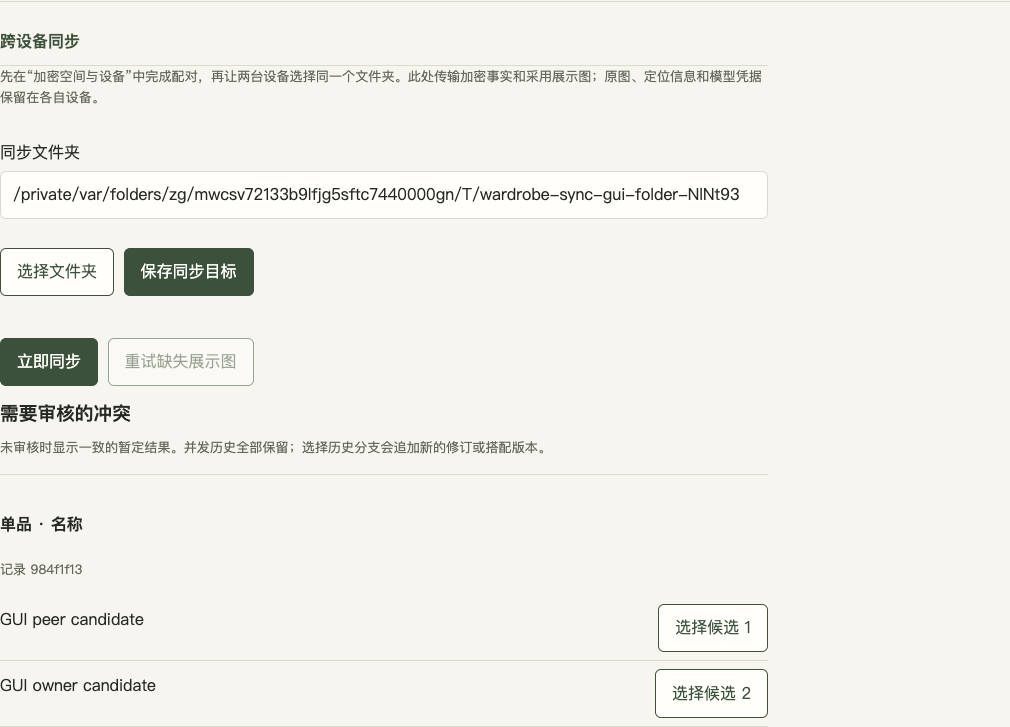
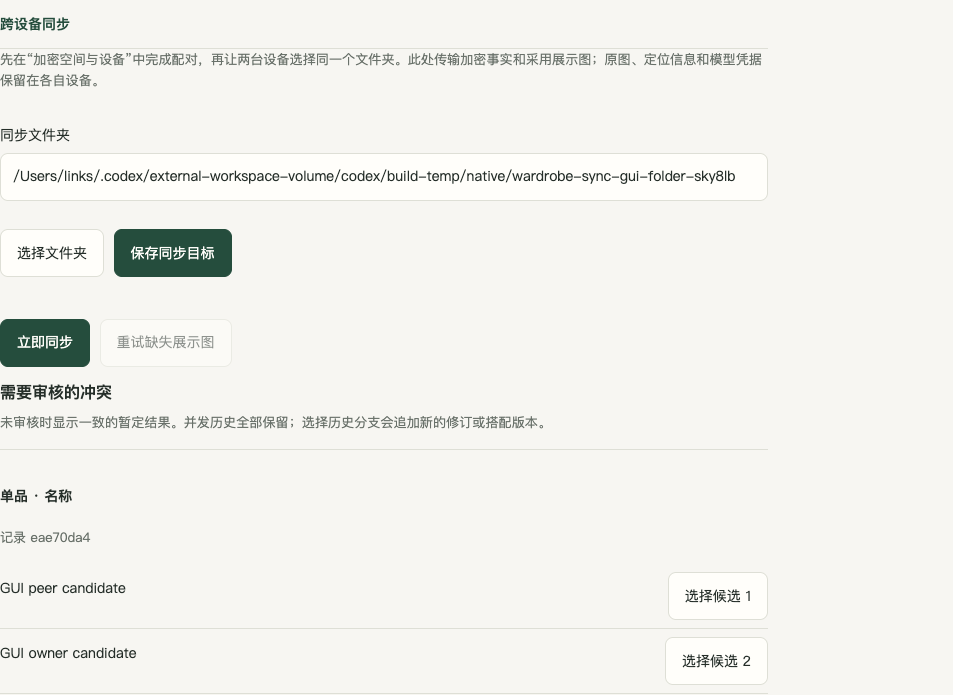
test(gui): retarget sync spec navigation to the four-workspace settings hub
The integrated #38 redesign moved sync settings behind 设置 → 同步
settings card; the panel flow (configure local folder target, disabled
run before target, storage error alert, narrow widths) is unchanged and
re-verified, including the real dual-installation OS-credential run
(GUI owner + CLI peer, bounded batches, stop/resume, name-conflict
manual choice, missing-display retry, rebuilt thumbnails) with fresh
verification screenshots.

diff --git a/apps/desktop/tests/sync.spec.ts b/apps/desktop/tests/sync.spec.ts
@@ -4,9 +4,14 @@ import {fileURLToPath} from 'node:url';
 import {mkdtempSync,writeFileSync,readdirSync,renameSync,rmSync,mkdirSync} from 'node:fs';
 import {join} from 'node:path';
 import {tmpdir} from 'node:os';
+const openSyncPanel=async(page:import('@playwright/test').Page)=>{
+ await page.getByRole('button',{name:'设置',exact:true}).click();
+ await page.getByRole('button',{name:/同步.*连接本地同步目标/}).click();
+ await page.getByText('跨设备同步',{exact:true}).click();
+};
 test('同步目标无配置时真实Application状态与窄屏手工配置入口',async({page})=>{
  await page.goto('/');
- await page.getByText('跨设备同步',{exact:true}).click();
+ await openSyncPanel(page);
  const panel=page.locator('#sync-settings');
  await expect(panel.getByLabel('同步文件夹')).toBeVisible();
  await expect(panel.getByRole('button',{name:'立即同步',exact:true})).toBeDisabled();
@@ -33,7 +38,7 @@ test('实际双安装GUI配置、断网名称冲突人工选择与缺图重试',
  const garment=await owner('clothing.create',{member_id:member,name:'GUI owner original',category:'top'});
  for(let i=0;i<260;i++)await owner('clothing.create',{member_id:member,name:`GUI bounded batch ${i}`,category:'top'});
  peer('sync.configure',{provider_kind:'local_folder',directory:remote});
- await page.goto('/');await page.getByText('跨设备同步',{exact:true}).click();const panel=page.locator('#sync-settings');
+ await page.goto('/');await openSyncPanel(page);const panel=page.locator('#sync-settings');
  await panel.getByLabel('同步文件夹').fill(remote);await panel.getByRole('button',{name:'保存同步目标',exact:true}).click();await expect(panel.getByRole('status')).toContainText('同步目标已保存');
  let release!:()=>void,markReady!:()=>void;const held=new Promise<void>(r=>{release=r;}),ready=new Promise<void>(r=>{markReady=r;});let holdOnce=true;
  await page.route('**/__wardrobe_dev_api',async route=>{if(holdOnce&&route.request().postDataJSON()?.operation==='sync.run'){holdOnce=false;const response=await route.fetch();markReady();await held;await route.fulfill({response});}else await route.continue();});
@@ -42,7 +47,7 @@ test('实际双安装GUI配置、断网名称冲突人工选择与缺图重试',
  await panel.getByRole('button',{name:'立即同步',exact:true}).click();await expect(panel.getByRole('status')).toContainText('本次发布',{timeout:60000});await expect(panel.getByRole('button',{name:'立即同步',exact:true})).toBeEnabled({timeout:60000});expect((await owner('sync.run')).sent).toBe(0);while(peer('sync.run').has_more){};
  await owner('clothing.update',{member_id:member,id:garment.id,name:'GUI owner candidate'});peer('clothing.update',{member_id:member,id:garment.id,name:'GUI peer candidate'});
  await owner('sync.run');peer('sync.run');await owner('sync.run');
- await page.reload();await page.getByText('跨设备同步',{exact:true}).click();
+ await page.reload();await openSyncPanel(page);
  const conflict=panel.locator('.sync-conflicts>li').filter({hasText:'单品 · 名称'});await expect(conflict).toContainText('GUI owner candidate');await expect(conflict).toContainText('GUI peer candidate');
  mkdirSync('../../docs/verification/ticket-27',{recursive:true});
  for(const width of[320,375,414,768,1024,1280,1440]){await page.setViewportSize({width,height:1000});expect(await page.evaluate(()=>document.documentElement.scrollWidth<=innerWidth)).toBeTruthy();if(width===320||width===1280)await panel.screenshot({path:`../../docs/verification/ticket-27/conflicts-${width}.png`});}
